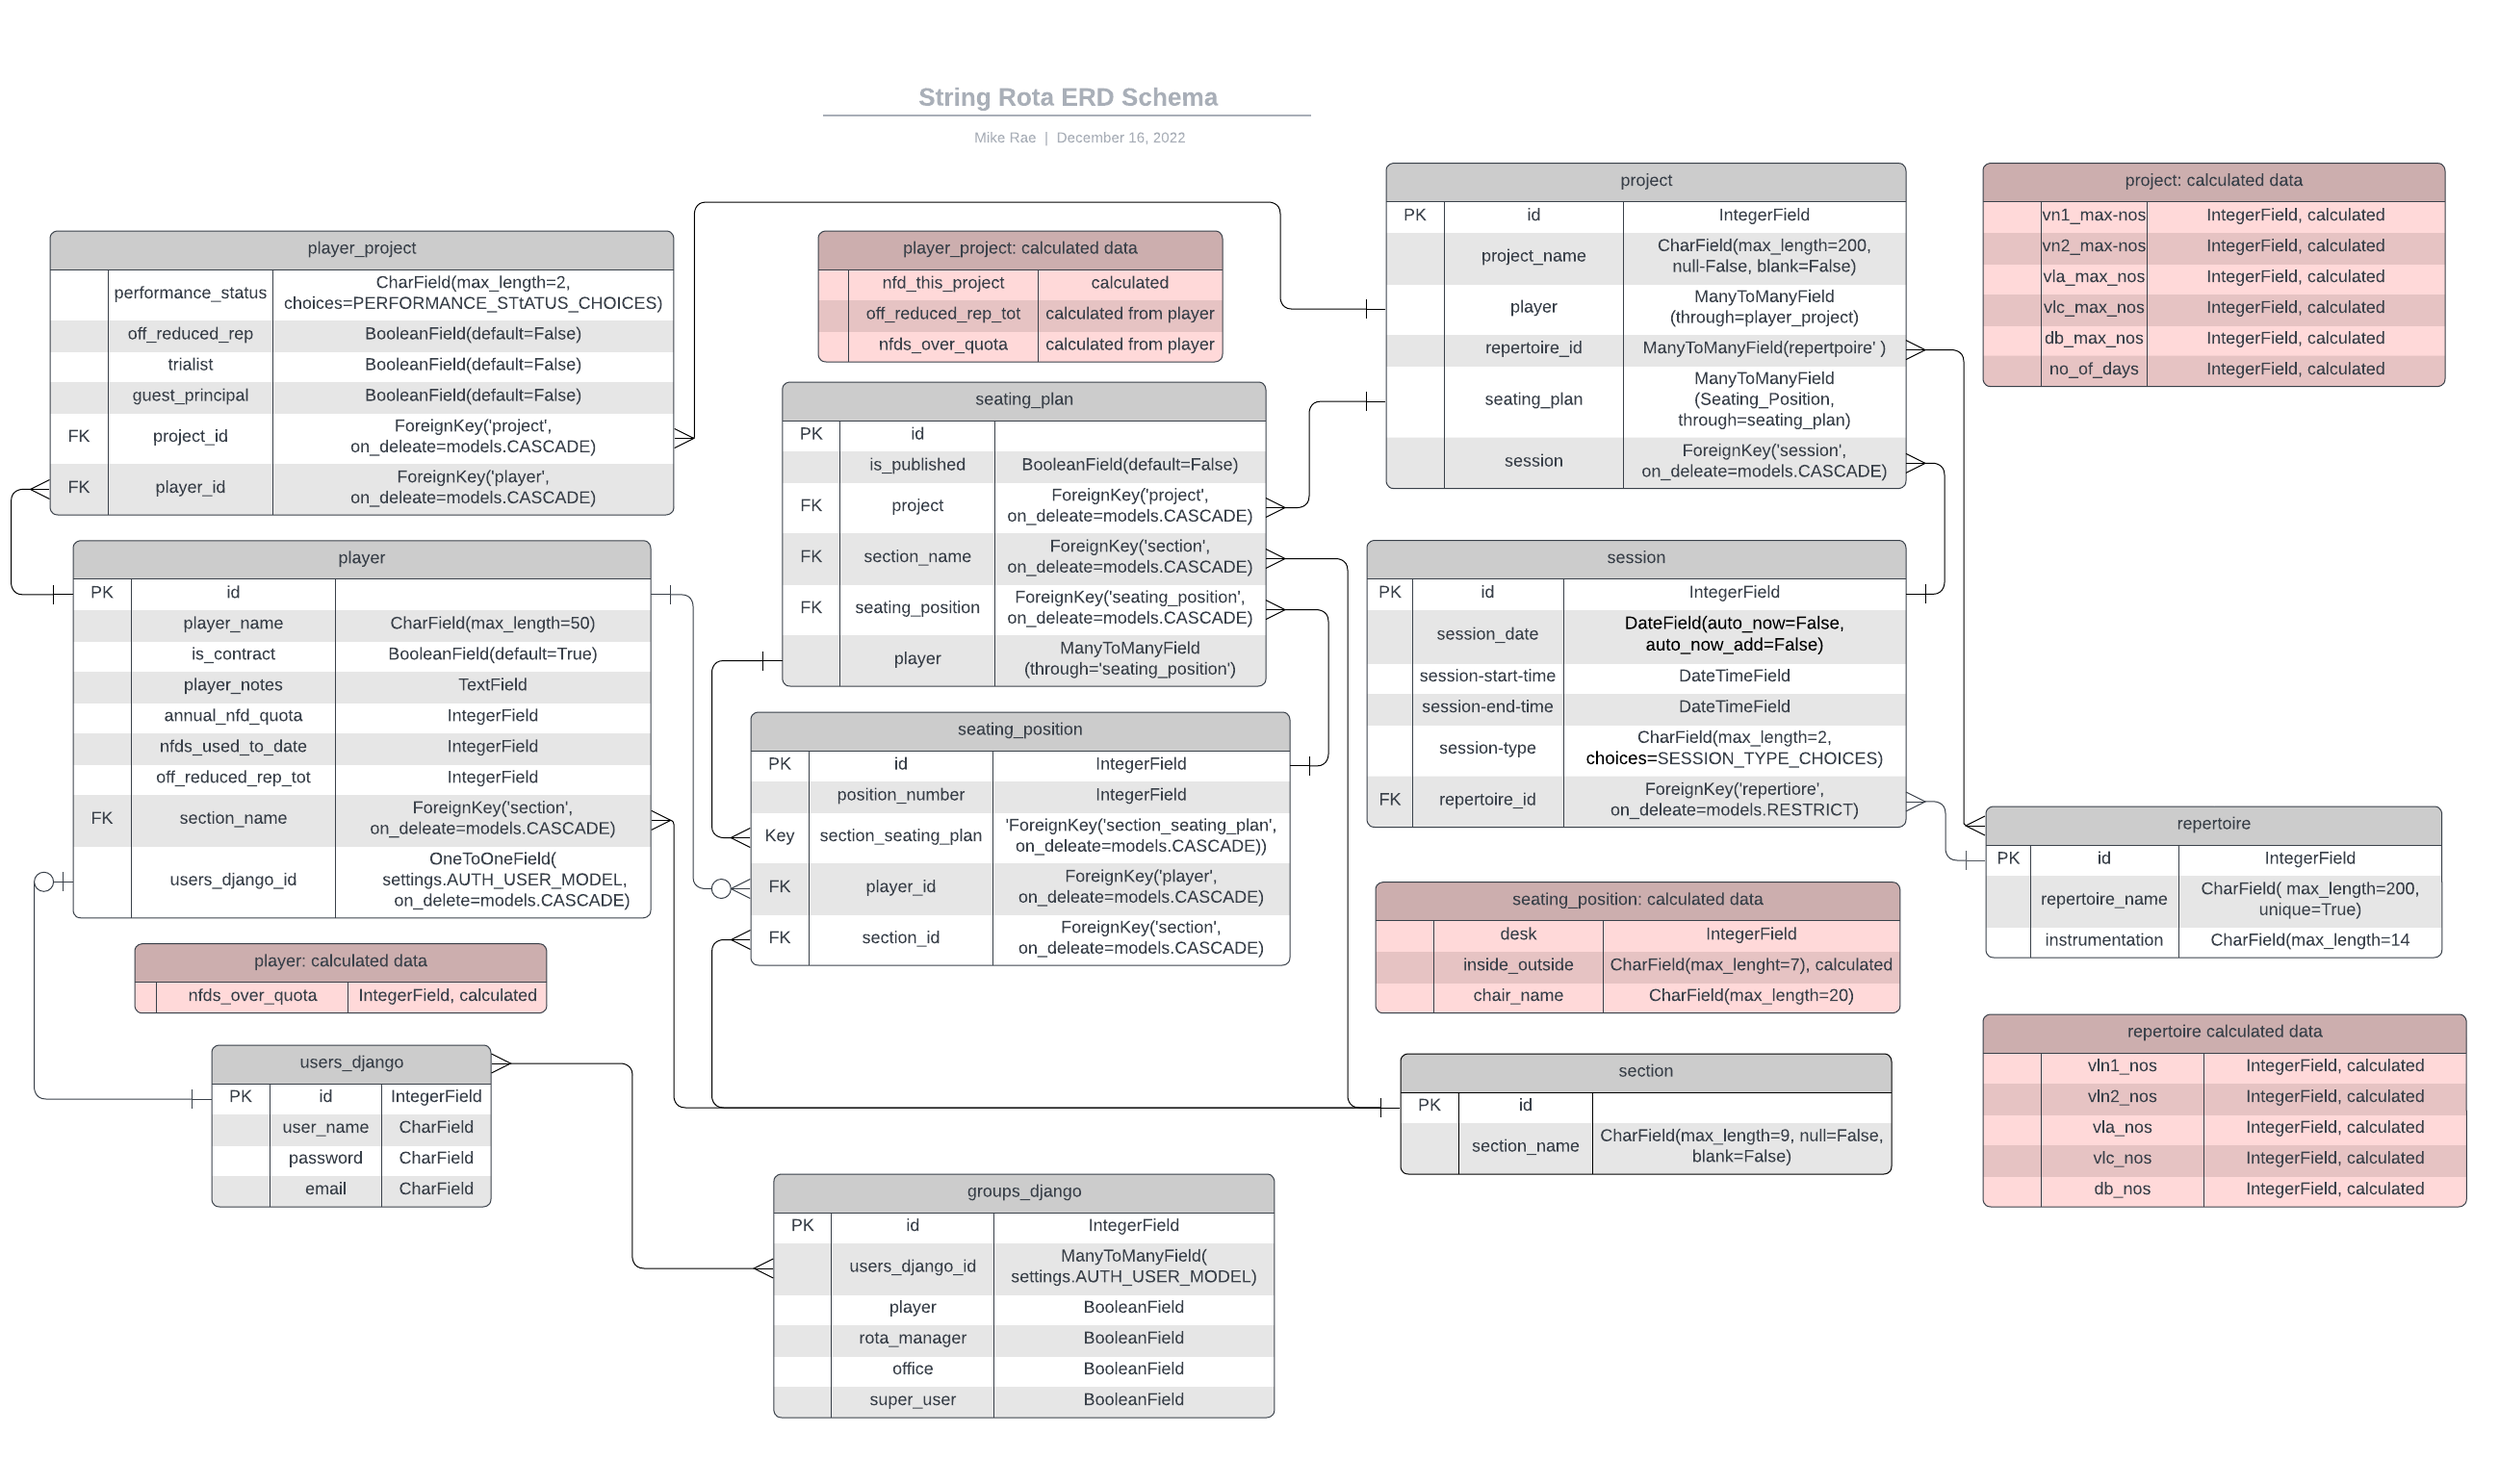
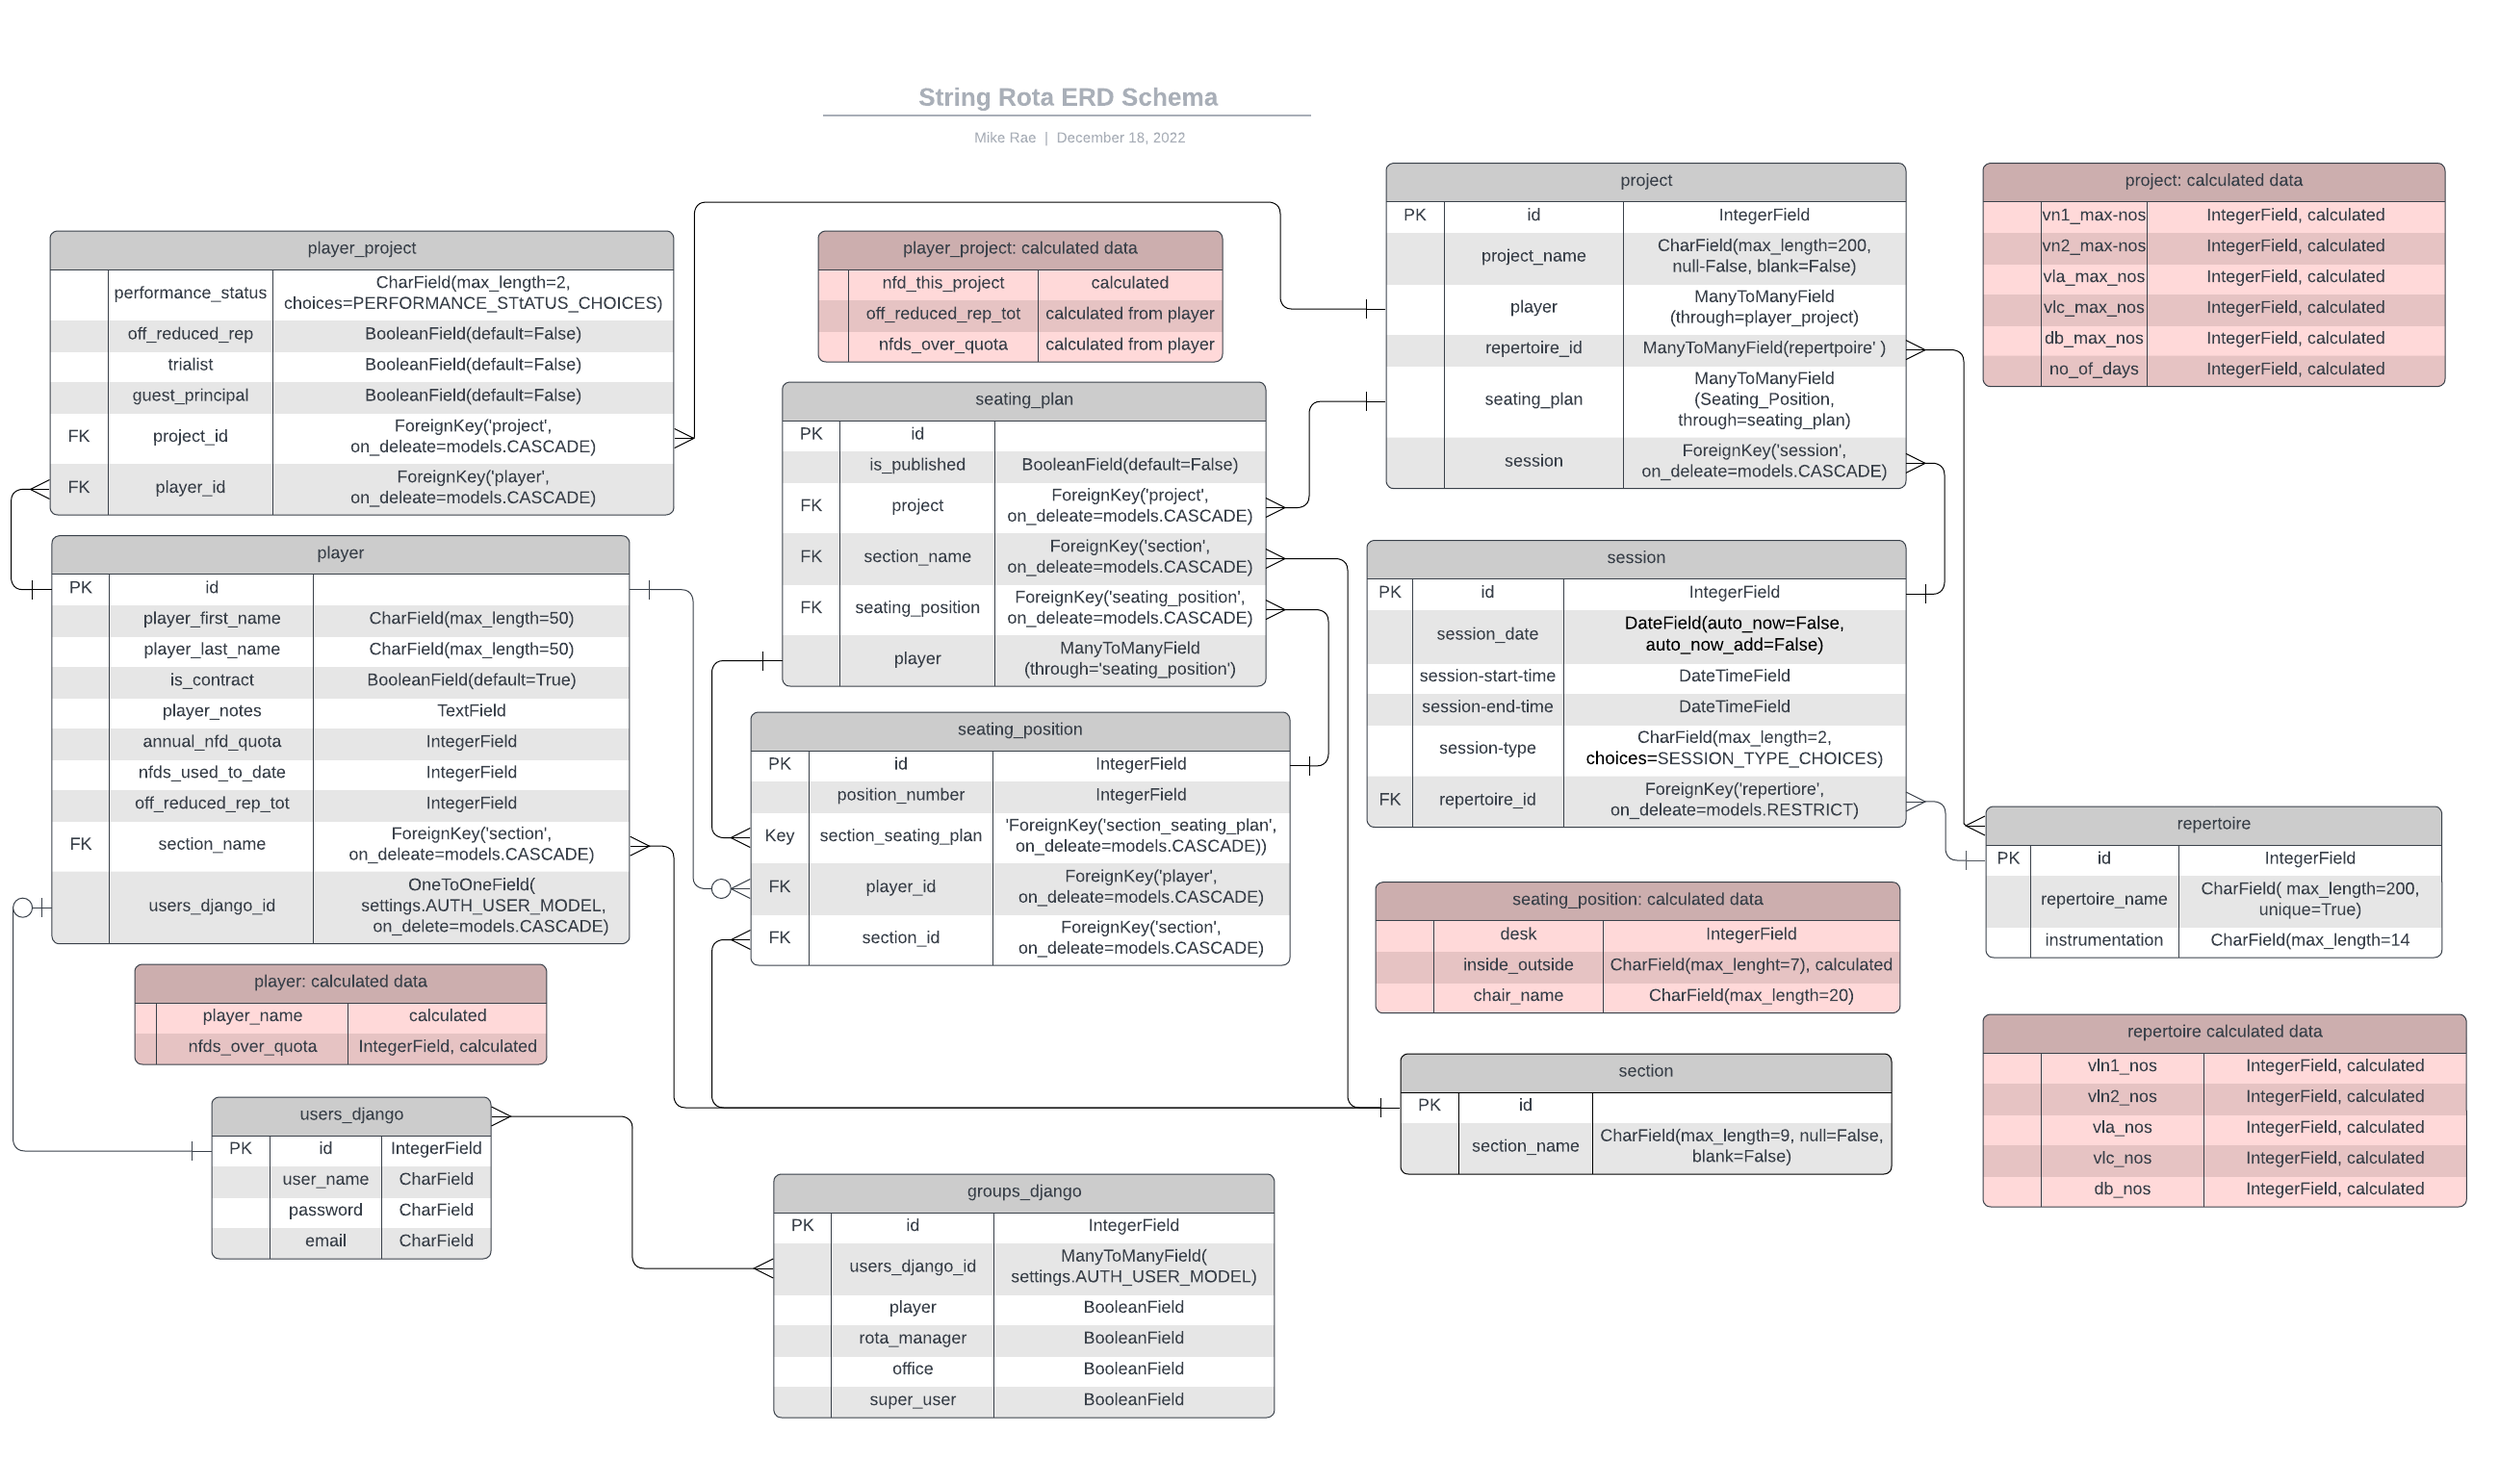
Modify models - see details
The Rota model was deleted and the Djsngo Groups functiality was used
instead.
The Player model player_name field was changed to player_first_name,
and additional field of player_last_name was added, and a function to
create a full name (player_name) was added. This matches the structure
of the PLayer data to be imported.

	modified:   assets/images/string-rota-erd-schema.png
	modified:   string_rota/admin.py
	new file:   string_rota/migrations/0008_player.py
	modified:   string_rota/models.py
	modified:   string_rota/views.py

Changed region(s): [[0.0, 0.3413, 0.2808, 0.8686]]

diff --git a/string_rota/migrations/0008_player.py b/string_rota/migrations/0008_player.py
@@ -1,0 +1,31 @@
+# Generated by Django 3.2.3 on 2022-12-18 13:35
+
+from django.conf import settings
+from django.db import migrations, models
+import django.db.models.deletion
+
+
+class Migration(migrations.Migration):
+
+    dependencies = [
+        migrations.swappable_dependency(settings.AUTH_USER_MODEL),
+        ('string_rota', '0007_alter_section_section_name'),
+    ]
+
+    operations = [
+        migrations.CreateModel(
+            name='Player',
+            fields=[
+                ('id', models.BigAutoField(auto_created=True, primary_key=True, serialize=False, verbose_name='ID')),
+                ('player_first_name', models.CharField(max_length=50, unique=True)),
+                ('player_last_name', models.CharField(max_length=50, unique=True)),
+                ('is_contract', models.BooleanField(default=True)),
+                ('player_notes', models.TextField()),
+                ('annual_nfd_quota', models.IntegerField(default=0)),
+                ('nfds_used_to_date', models.IntegerField(default=0)),
+                ('off_reduced_rep_tot', models.IntegerField(default=0)),
+                ('section_name', models.ForeignKey(on_delete=django.db.models.deletion.CASCADE, to='string_rota.section')),
+                ('users_django_id', models.OneToOneField(on_delete=django.db.models.deletion.CASCADE, to=settings.AUTH_USER_MODEL)),
+            ],
+        ),
+    ]

diff --git a/string_rota/models.py b/string_rota/models.py
@@ -24,7 +24,8 @@ class Section(models.Model):
 
 class Player(models.Model):
 
-    player_name = models.CharField(max_length=50, unique=True)
+    player_first_name = models.CharField(max_length=50, unique=True)
+    player_last_name = models.CharField(max_length=50, unique=True)
     is_contract = models.BooleanField(
         null=False, blank=False, default=True
         )
@@ -43,20 +44,15 @@ class Player(models.Model):
         settings.AUTH_USER_MODEL, on_delete=models.CASCADE
         )
 
+    @property
+    def player_name(self):
+        player_name = Concat(
+            'self.player_first_name', Value(' '), 'player_last_name', Value()
+            )
+        return player_nmae
+
     def __str__(self):
         return self.player_name
-
-
-# class Role(models.Model):
-#     player = models.BooleanField(default=True)
-#     rota_manager = models.BooleanField()
-#     office = models.BooleanField()
-#     super_user = models.BooleanField()
-#     users_django_id = models.ManyToManyField(settings.AUTH_USER_MODEL)
-
-#     def __str__(self):
-#         return self.users_django_id
-
 
 # class Session(models.Model):
 #     SESSION_TYPE_CHOICES = [

diff --git a/string_rota/views.py b/string_rota/views.py
@@ -1,31 +1,4 @@
 from django.shortcuts import render
-from .models import Repertoire
-from utilities.get_orch_data import (
-    connect_to_worksheet,
-    get_repertoire,
-    get_players
-    )
-
-"""
-Utilities to load manually pre-cleaned rsno schedule and player data
-from a remote google worksheet into project database.
-"""
-# Open connection to google worksheet
-SHEET = connect_to_worksheet()
-# Import data from worksheet
-REPERTOIRE_DATA = get_repertoire(SHEET)
-PLAYER_DATA = get_players(SHEET)
-
-
-def load_repertoire_data(DATA, MODULE):
-    """ Load project data into project database """
-    # for row in WORKSHEET_DATA:
-    #     print(row)
-    print(DATA[0])
-
-
-load_repertoire_data(REPERTOIRE_DATA, "")
-load_repertoire_data(PLAYER_DATA, "")
 
 
 # Create your views here.

diff --git a/string_rota/admin.py b/string_rota/admin.py
@@ -3,7 +3,6 @@ from .models import (
     Repertoire,
     Section,
     Player,
-    # Role,
     # Session,
     # Project,
     # Seating_Position,
@@ -16,7 +15,6 @@ from .models import (
 admin.site.register(Repertoire)
 admin.site.register(Section)
 admin.site.register(Player)
-# admin.site.register(Role)
 # admin.site.register(Session)
 # admin.site.register(Project)
 # admin.site.register(Seating_Position)
